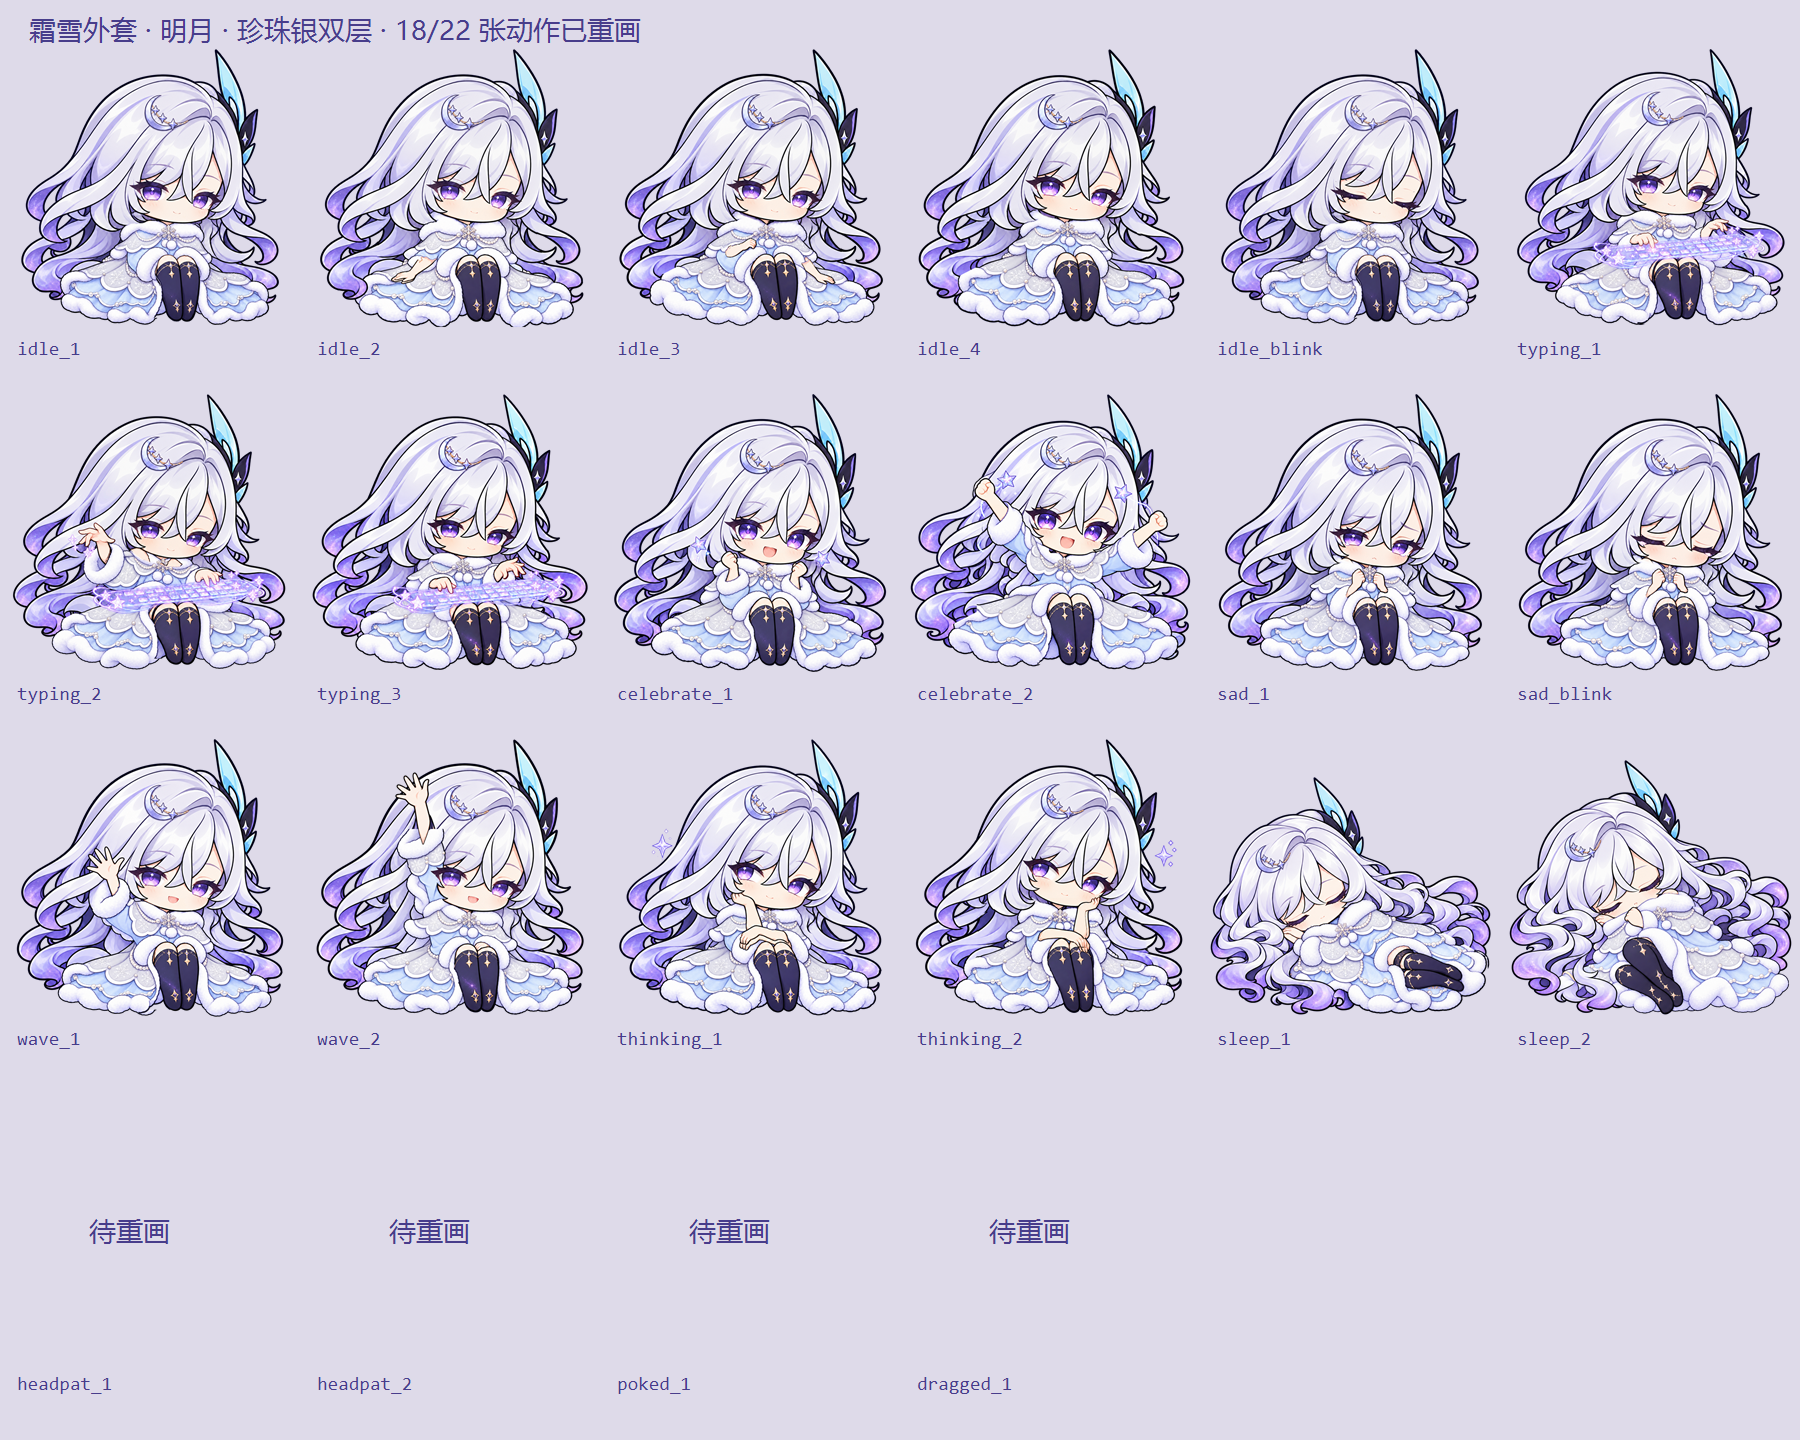
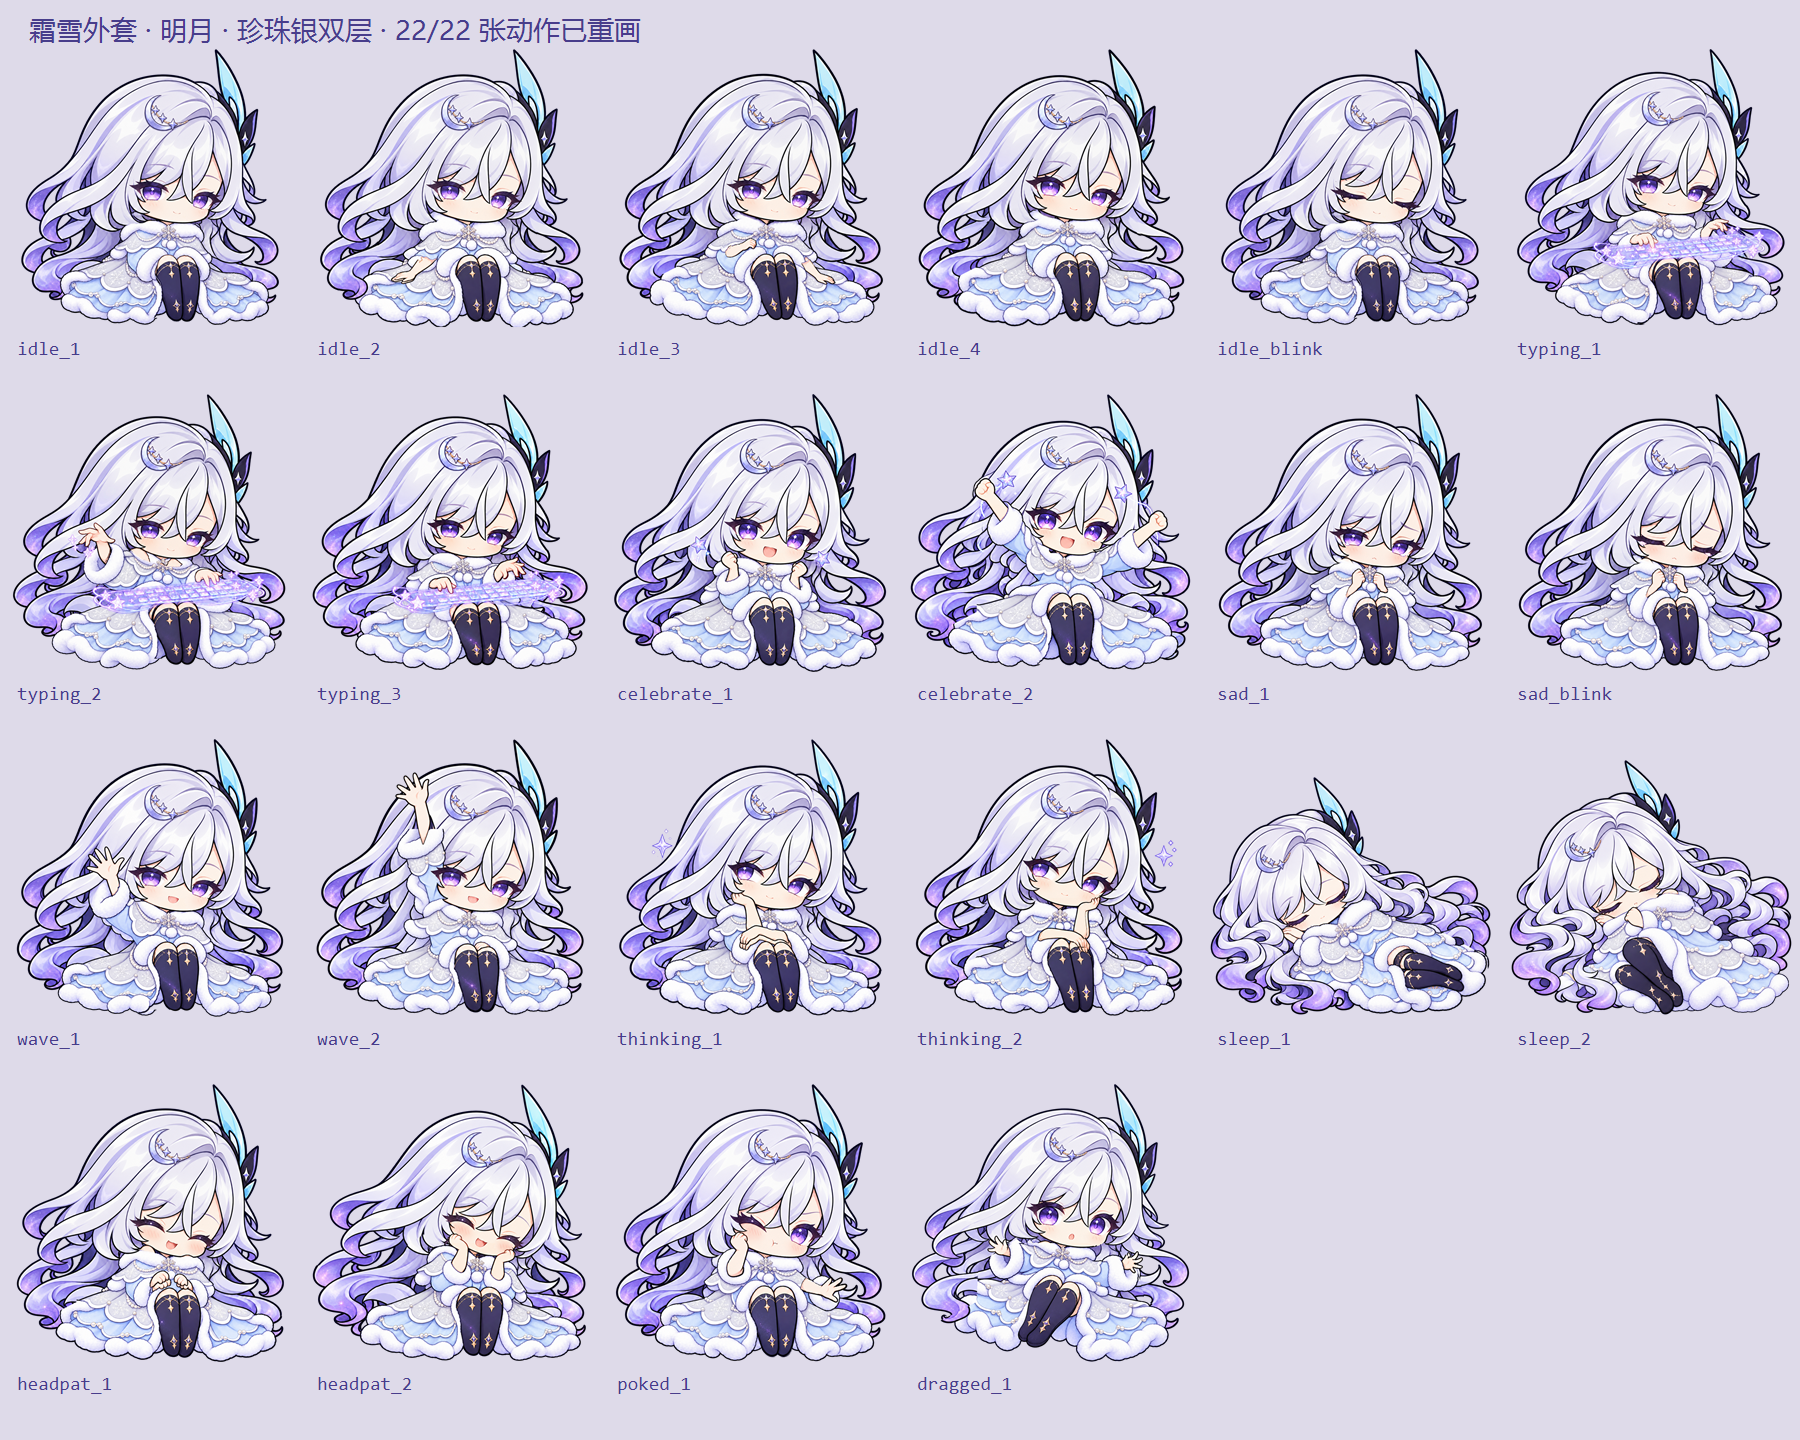
art: complete all 66 frost coat rarity sprites
Directly redraw the last twelve poses after imagegen quota recovery, preserving the previous54 sprite hashes. Refresh the complete three-tier previews and provenance; verify66 RGBA sprites and six eye-only blinks. Step2 remains gated on human visual acceptance; no runtime changes or publication.

Changed region(s): [[0.0, 0.75, 0.6844, 0.9688], [0.2178, 0.0, 0.2489, 0.0312]]

diff --git a/HANDOFF.md b/HANDOFF.md
@@ -166,9 +166,9 @@
 - Recovery: D:\Documents\ChatGPT\petoken-takeover-backups\v2.3-art-batch2 (generation.json,validation.json,masks,raw paths,preview/check scripts,PROGRESS.md,original-firstbatch).
 
 ## Frost coat step 1 (2026-10-12)
-- Current progress: PARTIAL 54/66; 18 existing sprites per tier replaced, three tier PREVIEW.png refreshed, FROST_COAT_PREVIEW.png/GENERATION.json/STEP1_STATUS.md added under assets/v2_5/outfits/frost_coat/. Branch codex/outfits-frost-coat in D:\Documents\ChatGPT\petoken-frost-coat-art, base ad44b23; local progress checkpoint only. No code, other outfits, Claude checkout, push or step 2 changes.
-- Decisions: fanxing matte gray-blue single layer; mingyue pearl silver and layered scalloped hem; haori warm ivory/champagne-gold with wide short cape. Built-in imagegen produced48 redraws; six blinks use exact source-eye RGB patches while preserving new open-frame alpha. Original non-clothing regions, skin and boots restored with recorded .NET masks; no Python editing, dependencies or alternative image service.
-- Verification:54/54 size1254-square/RGBA/transparent-border PASS;6/6 eye-only changes and exact blink-alpha PASS;12 unfinished original PNG hashes unchanged. Full sheets and 128/64/48px comparisons on light/dark backgrounds inspected. Pixel-composition QA corrected gold-selector leakage and blink alpha changes before promotion. QA helpers use Windows PowerShell5.1 because current .NET10 drawing interfaces need extra assemblies; helper preview/BOM errors repaired. Runtime integration and animation acceptance remain untested.
-- Open issues: imagegen HTTP429 usage_limit_reached prevented headpat_1/headpat_2/poked_1/dragged_1 in each of three tiers (12 sprites). They remain ORIGINAL and are explicitly labeled incomplete. Reported quota reset2026-10-12T20:45:33Z (16:45 Toronto); do not infer quota is now available without checking.
-- Next: USER SELECTED WAIT FOR IMAGEGEN QUOTA, not composition. After quota restores, generate headpat_1/headpat_2/poked_1/dragged_1 for fanxing/mingyue/haori, using original backup sprites as edit targets and saved tier idle_1 masters as design references. Save per-frame prompt/raw JSON in recovery, rerun finish.ps1 -Final (requires66), verify all66 and prepare a completion commit. Human accepts step1 before any step2.
-- Recovery/project conventions: D:\Documents\ChatGPT\petoken-takeover-backups\frost-coat-step1 has original69PNG/hash baseline,48 raw sprites and prompts, final54 sprites/preview, finish.cs/finish.ps1, verify-final.ps1 and validation logs. finish.ps1 uses the original backup as registration source; -Checkpoint promotes partial outputs, -Final requires66 finished sprites. Compile helpers with powershell.exe, not current pwsh. Preserve filenames,1254 RGBA canvas and pose registration; never edit runtime code for this art assignment.
+- Current progress: COMPLETE66/66, WAITING_FOR_HUMAN_ART_QA. All22 original sprite names per tier redrawn; refreshed3 PREVIEW.png and FROST_COAT_PREVIEW.png, GENERATION.json and STEP1_STATUS.md under assets/v2_5/outfits/frost_coat/. Branch codex/outfits-frost-coat in D:\Documents\ChatGPT\petoken-frost-coat-art, base ad44b23; partial commit c1d077e followed by the completion commit. No runtime code, other outfits, Claude checkout, push, merge or step2 changes.
+- Decisions: fanxing matte gray-blue single layer; mingyue pearl silver and layered scalloped hem; haori warm ivory/champagne gold with wide short cape.60 direct imagegen clothing redraws plus6 eye-only blink variants. Exact source non-clothing/skin/boot registration uses the recorded .NET masks; blinks copy closed-eye RGB inside eye polygons while preserving new open-frame alpha.
+- Quota history: first session stopped at48 raw generations and54 finished outputs; the user explicitly chose to wait rather than use clothing-part composition. Live resume retry succeeded, and all12 remaining headpat_1/headpat_2/poked_1/dragged_1 drawings were generated directly. No alternate service or paid CLI fallback.
+- Verification:66/66 sprite filenames,1254-square/RGBA/transparent borders PASS;6/6 eye-only changes and exact alpha PASS;previous54 binary hashes unchanged;last12 old assets all replaced;metadata60 prompts/complete66/no pending PASS. Viewed all12 final poses and final tier sheets; same-pose128/64/48px comparisons on light/dark backgrounds inspected. git diff --check PASS.
+- Next steps/open issues: human accepts the completed step1 visually and connects it in the app. Only after that confirmation may step2 expand the remaining action inventory. Static sprites do not establish runtime animation/scheduling acceptance. There is no outstanding drawing blocker in step1.
+- Recovery/project conventions: D:\Documents\ChatGPT\petoken-takeover-backups\frost-coat-step1 contains original69 PNG/hash baseline,60 raw drawings and prompt records,66 final sprites, full previews, finish.cs/finish.ps1, verify66.ps1 and final66-validation.txt. Helpers run using powershell.exe (Windows PowerShell5.1), use original backups as registration source, preserve filenames and1254 RGBA, and need no dependencies/Python/runtime edits. Preserve prior54 checkpoint hashes when resuming. Local commits only.

diff --git a/assets/v2_5/outfits/frost_coat/STEP1_STATUS.md b/assets/v2_5/outfits/frost_coat/STEP1_STATUS.md
@@ -1,13 +1,12 @@
-# Frost coat step 1 — PARTIAL, 54/66
+# Frost coat step 1 — COMPLETE, 66/66; awaiting human art acceptance
 
-Branch: codex/outfits-frost-coat. Base: ad44b23. Local artwork checkpoint only; do not treat this as completion of step 1.
+Branch: codex/outfits-frost-coat. Base: ad44b23. The previous partial checkpoint is c1d077e; the completion commit follows it.
 
-- Completed: 18 of the existing 22 sprites per tier, 54 total. 48 built-in imagegen redraws, plus six eye-only blink versions.
-- Design: fanxing uses plain dark gray-blue single-layer cloth; mingyue uses pearl silver and a layered scalloped hem; haori uses warm ivory/champagne gold and a broad short cape.
-- Verified: all 54 delivered sprites are 1254x1254 RGBA with transparent borders; all six blinks preserve the open-frame alpha and differ only inside eye polygons. Remaining original files were hash checked and preserved. Three tier contact sheets and FROST_COAT_PREVIEW.png include explicit incomplete counts; the overview compares 128/64/48px on dark and light backgrounds.
-- Not yet redrawn: headpat_1.png, headpat_2.png, poked_1.png, dragged_1.png in EACH of fanxing, mingyue and haori, 12 total. These files still contain the original art.
-- Blocker: built-in imagegen returned HTTP 429 usage_limit_reached; reported reset 2026-10-12 20:45:33 UTC (16:45:33 America/Toronto). Do not silently switch to a paid API or other generator.
-- User chose to WAIT FOR GENERATION QUOTA and redraw the remaining twelve with imagegen. Do not use clothing-part composition for them.
-- Step 2 is not authorized until the user accepts the completed step 1. No runtime animation or app-integration acceptance is claimed.
+- Delivered: all existing22 sprite filenames in EACH of fanxing, mingyue and haori, 66 total. 60 direct built-in imagegen clothing redraws plus six eye-only blink variants.
+- Design: fanxing uses plain dark gray-blue single-layer cloth; mingyue uses pearl silver and two scalloped hem layers; haori uses brighter warm ivory/champagne gold with a broad short cape, clasp and embroidery.
+- The final12 (headpat_1/headpat_2/poked_1/dragged_1 per tier) were directly redrawn after imagegen quota became available again. The user's choice to wait was respected; no clothing-part composition shortcut or alternative image service was used.
+- Verified:66/66 sprite inventory, 1254x1254 RGBA and fully transparent borders;6/6 blinks differ only inside eye polygons and preserve the complete open-frame alpha. Previous54 sprite SHA256 hashes remain unchanged. Last12 all differ from old art. Provenance reports complete66/no pending frames/60 generation prompts.
+- All12 final poses and full tier sheets were visually inspected. FROST_COAT_PREVIEW.png compares the same idle pose across tiers at large size and128/64/48px on dark/light backgrounds, plus celebrate/sleep examples.
+- Step2 is not started or authorized until the user confirms this completed step1. Runtime animation scheduling, app integration and human aesthetic acceptance are outside this static asset validation. No code changes, push, merge or publication.
 
-Prompts/provenance: GENERATION.json. Recovery: D:\Documents\ChatGPT\petoken-takeover-backups\frost-coat-step1, including original PNGs and hashes, all raw generated PNGs, exact prompts, composition masks/code, verification logs, and finish.ps1.
+Prompts/provenance: GENERATION.json. Recovery: D:\Documents\ChatGPT\petoken-takeover-backups\frost-coat-step1, containing all original69 PNGs and hashes,60 generated PNGs and exact prompts, registration/eye masks in finish.cs, finish.ps1, verify66.ps1, final66-validation.txt, and final previews.
